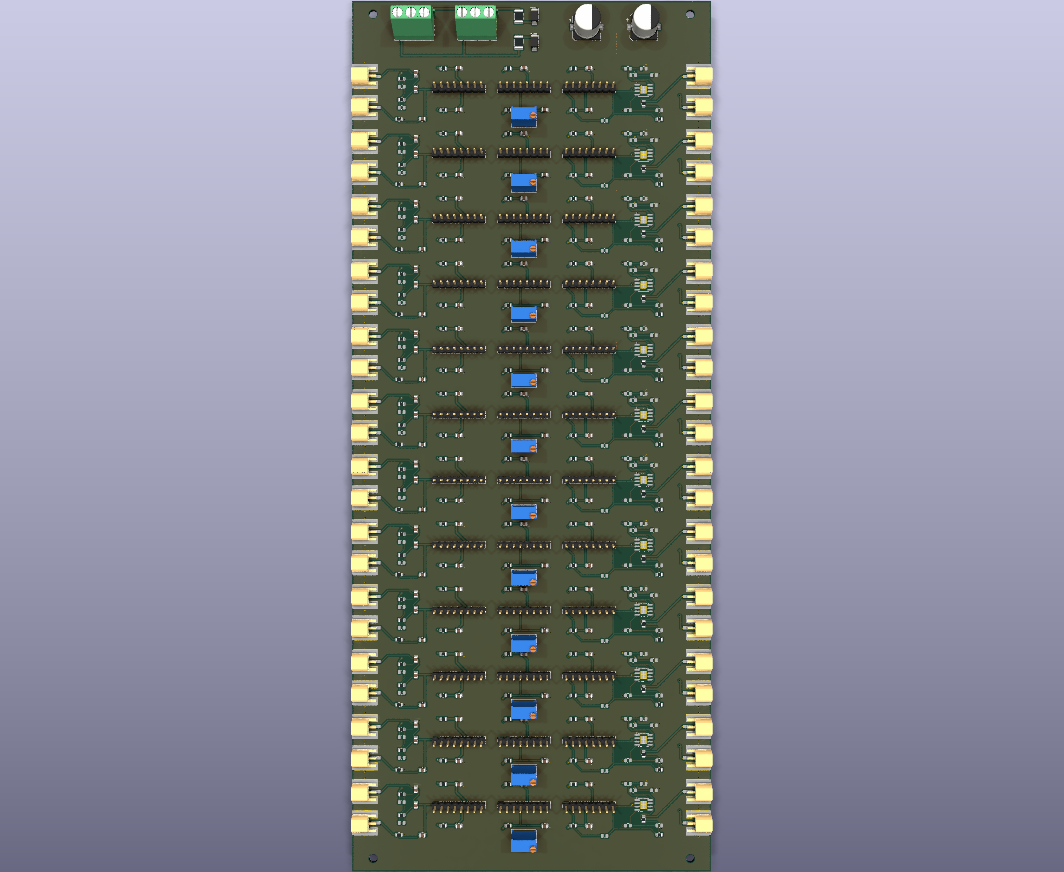
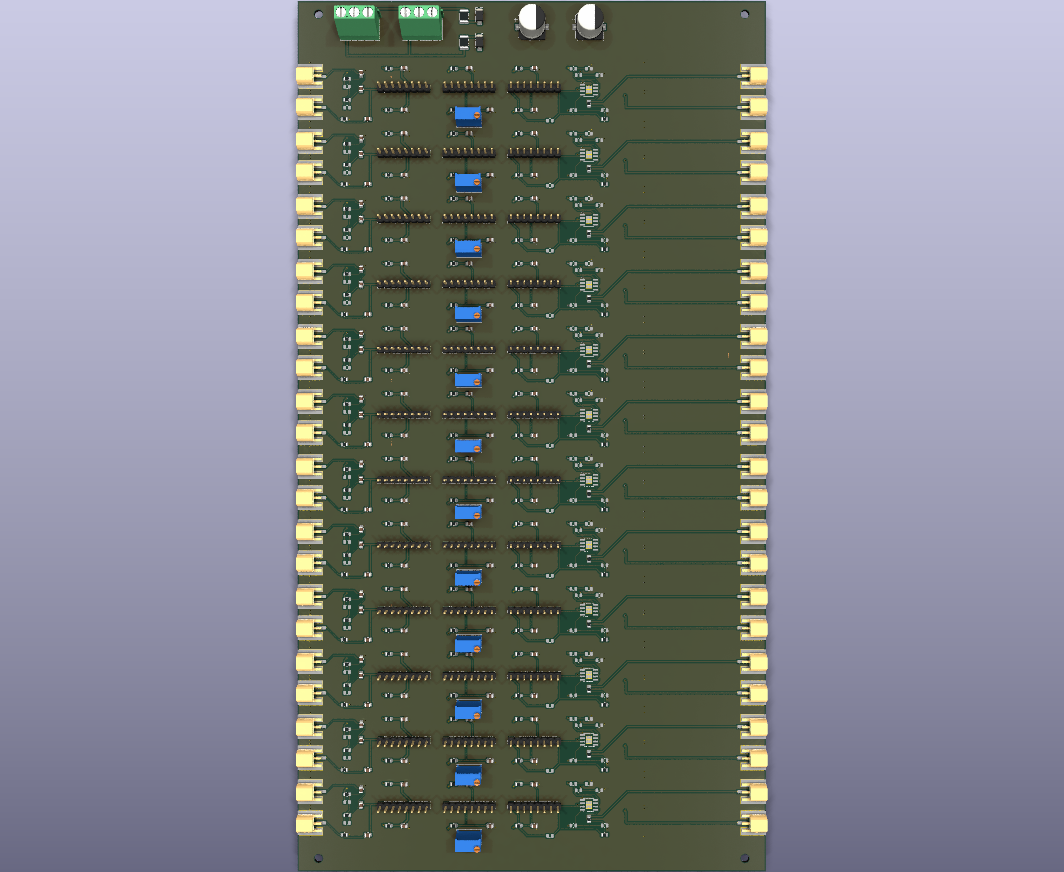
12ch: widen board 138 -> 180 mm for Hammond RM2U1908 enclosure
Two 12-ch boards stack in a Hammond RM2U1908 2U rack case (~185 mm
internal depth). Widen the board so the two MCX rows land on the front
and back bulkheads: keep the 138 mm single-channel tile, grow only the
output/bias (right) side by 42 mm.

- gen_pcb.py: W=180, RIGHT_MCX={J_OUT50,J_BIAS} shifted +DW with 0.4 mm
  F.Cu trace extensions so the moved jacks stay connected; notch reader
  cuts the right-edge notch at the new x. One adjustable parameter (W).
- Board 180.0 x 334.7 mm, 48 MCX (24/edge), DRC 0/0/0 incl. 0 unconnected.
- Docs (INTERFACE/README/SESSION_LOG) + render + fab regenerated at 180 mm.

Order-ready pending a mechanical check of W vs the box's real depth.

Changed region(s): [[0.2481, 0.0, 0.7444, 1.0]]

diff --git a/final-board/twelve-channel/design/gen_pcb.py b/final-board/twelve-channel/design/gen_pcb.py
@@ -35,11 +35,17 @@ SC_REFMAP, _ = g12.build_refmap(sc.ROLES)          # role -> single-channel ref
 SC_ROLE = {v: k for k, v in SC_REFMAP.items()}     # single-channel ref -> role
 DNP_ROLES = {r for r in CH_ROLES if sc.SPEC[r][2]}
 MCX_ROLES = {"J_BIAS", "J_SIPM", "J_TEST", "J_OUT50"}
+RIGHT_MCX = {"J_OUT50", "J_BIAS"}          # output-side jacks -> shift out to the widened right edge
 def chref(role, n): return g12.stride_ref(CH_BASE_REF[role], n)
 
 PITCH = 25.0            # per-channel vertical pitch (single-channel row ~24.6 mm tall)
 YSPLIT = 20.0           # tracks with min-y >= this belong to the channel (COM row is above it)
-W = 138.0
+# Board width = the enclosure internal DEPTH minus ~2 mm, so both MCX edges reach the front/back
+# bulkheads. Hammond RM2U1908 (8"/203 mm external) ~= 185 mm internal -> 180 mm (conservative; the
+# barrel reaches through the panel). ADJUST this one number to the box's real internal depth.
+W = 180.0               # 12-ch board width (was 138 = single-channel cell)
+W_CELL = 138.0          # single-channel tile width (unchanged); board grows on the OUTPUT (right) side
+DW = W - W_CELL         # right-edge extension: output MCX move out, their signal traces extend
 
 def mm(v): return pcbnew.FromMM(float(v))
 def V(x, y): return pcbnew.VECTOR2I(mm(x), mm(y))
@@ -146,6 +152,15 @@ def main():
                     try: d.SetField(k, fld[k])
                     except Exception: pass
             if role in MCX_ROLES:                       # read the edge notch (cutout stays on Dwgs.User)
+                if role in RIGHT_MCX and DW:            # move the output jack to the new right edge and
+                    p = next((q for q in d.Pads() if q.GetNumber() == "1"), None)   # extend its signal trace
+                    old = (p.GetPosition().x / 1e6, p.GetPosition().y / 1e6) if p else None
+                    d.Move(V(DW, 0))
+                    p = next((q for q in d.Pads() if q.GetNumber() == "1"), None)
+                    new = (p.GetPosition().x / 1e6, p.GetPosition().y / 1e6) if p else None
+                    nm = TW_PADNET.get((nref, "1"))
+                    if old and new and nm:              # start 1 mm left of the old pad so it laps the routed trace
+                        _track(out, nm, pcbnew.F_Cu, [(old[0] - 1.0, old[1]), new], width=0.4)
                 ex, ey = [], []
                 for it in d.GraphicalItems():
                     if it.GetLayer() == pcbnew.Dwgs_User:

diff --git a/final-board/twelve-channel/design/SESSION_LOG.md b/final-board/twelve-channel/design/SESSION_LOG.md
@@ -105,3 +105,28 @@ Followed the recipe above; all items transferred + verified:
 
 Board 138 × 334.7 mm, DRC 0/0/0. **Order-ready pending the enclosure-depth width resize** (widen the
 138 mm dimension so the MCX edges meet the box front/back bulkheads).
+
+---
+
+## 2026-07-11 — session 10 — widened to the Hammond RM2U1908 enclosure (DONE)
+
+The user picked a **Hammond RM2U1908** 2U rack case (8"/203 mm external, ~185 mm internal depth) to
+stack two 12-ch boards. The board must be as **wide as the box is deep** so the two MCX rows land on
+the front and back bulkheads. Widened the board **138 → 180 mm** (one parameter, `gen_pcb.py` `W`,
+conservatively 5 mm shy of the ~185 mm internal — the barrels reach through the panel; **adjust to
+the box's real internal depth**).
+
+- The single-channel **tile stays 138 mm** (`W_CELL`); the board grows only on the **output/bias
+  (right) side** by `DW = W - W_CELL = 42 mm`. Signal integrity is unaffected — the shaper outputs
+  are slow (µs) Gaussian pulses, so the longer OUT_50/BIAS run is immaterial; BIAS is DC.
+- Clone loop: for each right-edge MCX (`RIGHT_MCX = {J_OUT50, J_BIAS}`) record pad-1, `Move(+DW)`,
+  and lay a 0.4 mm **F.Cu extension** from the old pad location to the new one so the moved jack stays
+  connected (this is why unconnected stays 0). The notch reader then sees the MCX at `x≈W` and cuts
+  the right-edge notch there; left-edge (input) MCX are untouched.
+- Re-ran `gen_pcb.py` + `fill_zones.py` + `polish_silk.py`: **180.0 × 334.7 mm, 48 notches (24 L /
+  24 R), DRC 0 / 0 / 0** (incl. 0 unconnected). Render `twelve-channel-3d.png` confirms the output
+  MCX sit on the far edge with the extension traces crossing the right region; input side stays
+  compact. Fab regenerated at 180 mm (`fab/`, git-ignored).
+
+**Order-ready.** Remaining pre-order check is purely mechanical: confirm `W=180` against the actual
+RM2U1908 internal depth before sending gerbers.

diff --git a/final-board/twelve-channel/design/README.md b/final-board/twelve-channel/design/README.md
@@ -36,5 +36,6 @@ change before re-running `gen_pcb.py`).
 
 ## Result
 
-138 × 335 mm, 4-layer. 468 footprints (464 parts + 4 M3), 1836 tracks + 424 vias, 4 plane
-zones. **DRC 0 violations / 0 unconnected / 0 schematic-parity.** Render: `twelve-channel-top.png`.
+180 × 335 mm, 4-layer (widened from 138 mm to span the Hammond RM2U1908 2U case; the output/bias
+MCX row was shifted to the far edge with F.Cu trace extensions). 468 footprints (464 parts + 4 M3),
+4 plane zones. **DRC 0 violations / 0 unconnected / 0 schematic-parity.** Render: `twelve-channel-3d.png`.

diff --git a/final-board/twelve-channel/INTERFACE.md b/final-board/twelve-channel/INTERFACE.md
@@ -4,7 +4,9 @@
 > from the reworked single channel (`integration/single-channel/`) as a KiCad **hierarchical**
 > design (channel sheet instantiated 12×) with a **tile-and-replicate** layout (one routed
 > channel row stamped 12× — all 12 blocks geometrically identical = matched parasitics).
-> Board **138 × 335 mm**, 4-layer.
+> Board **180 × 335 mm**, 4-layer (widened from 138 mm so the two MCX rows reach the front/back
+> bulkheads of a **Hammond RM2U1908** 2U rack case — see `design/gen_pcb.py` `W`, adjustable to
+> the box's real internal depth).
 
 ## What this board is — 12 copies of the proven single channel + shared power
 